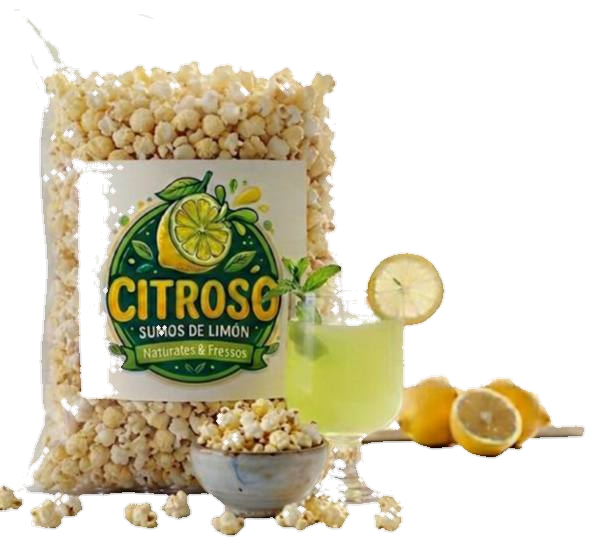
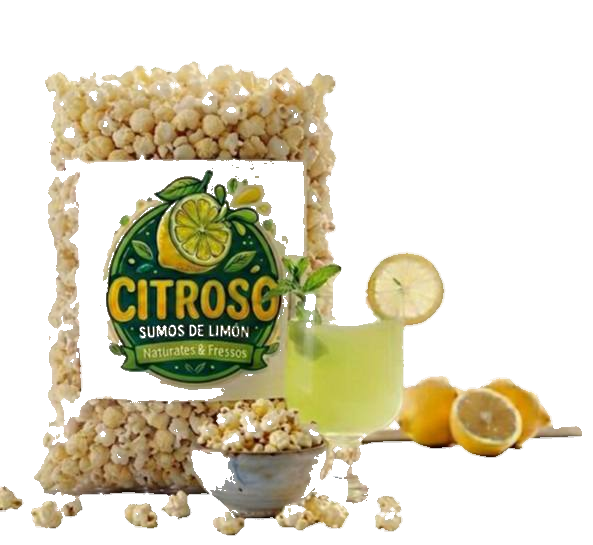
fix: bg removal por colorfulness + brillo, sin fondo oscuro

diff --git a/index.html b/index.html
@@ -469,7 +469,7 @@ footer p { color: rgba(255,255,255,0.25); font-size: 0.8rem; }
   </div>
   <div class="categories-wrapper">
     <div class="category-card" data-id="sumo">
-      <img src="sumo.png" alt="Sumo de Limón" style="width:100%;height:200px;object-fit:contain;border-radius:10px;margin-bottom:0.6rem;background:rgba(8,9,13,0.6)">
+      <img src="sumo.png" alt="Sumo de Limón" style="width:100%;height:200px;object-fit:contain;border-radius:10px;margin-bottom:0.6rem">
       <h3 style="font-size:1rem;margin-bottom:0.3rem">Sumo de Limón</h3>
       <p style="font-size:1.1rem;font-weight:800;color:#ffe600;margin-bottom:0.4rem">$ —</p>
       <div class="stepper" data-product="Sumo de Limón">
@@ -479,7 +479,7 @@ footer p { color: rgba(255,255,255,0.25); font-size: 0.8rem; }
       </div>
     </div>
     <div class="category-card" data-id="aritos">
-      <img src="aritos.png" alt="Aritos de Limón" style="width:100%;height:200px;object-fit:contain;border-radius:10px;margin-bottom:0.6rem;background:rgba(8,9,13,0.6)">
+      <img src="aritos.png" alt="Aritos de Limón" style="width:100%;height:200px;object-fit:contain;border-radius:10px;margin-bottom:0.6rem">
       <h3 style="font-size:1rem;margin-bottom:0.3rem">Aritos de Limón</h3>
       <p style="font-size:1.1rem;font-weight:800;color:#ffe600;margin-bottom:0.4rem">$ —</p>
       <div class="stepper" data-product="Aritos de Limón">
@@ -489,7 +489,7 @@ footer p { color: rgba(255,255,255,0.25); font-size: 0.8rem; }
       </div>
     </div>
     <div class="category-card" data-id="crispetas">
-      <img src="crispetas.png" alt="Crispetas" style="width:100%;height:200px;object-fit:contain;border-radius:10px;margin-bottom:0.6rem;background:rgba(8,9,13,0.6)">
+      <img src="crispetas.png" alt="Crispetas" style="width:100%;height:200px;object-fit:contain;border-radius:10px;margin-bottom:0.6rem">
       <h3 style="font-size:1rem;margin-bottom:0.3rem">Crispetas</h3>
       <p style="font-size:1.1rem;font-weight:800;color:#ffe600;margin-bottom:0.4rem">$ —</p>
       <div class="stepper" data-product="Crispetas">